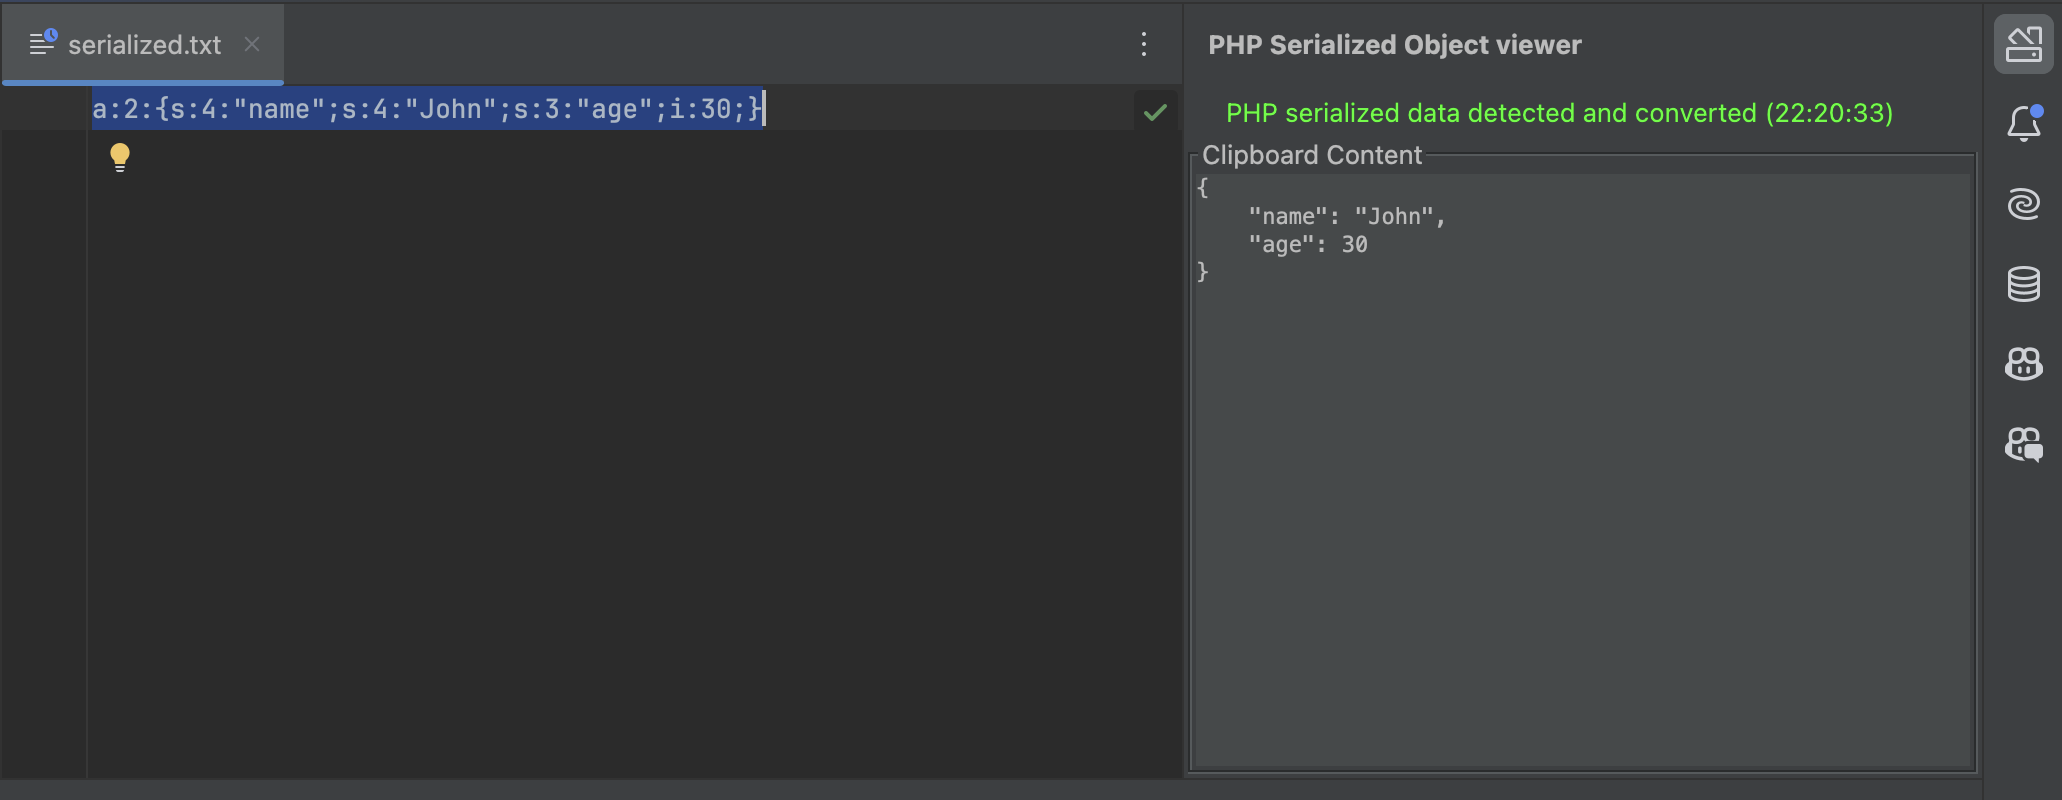
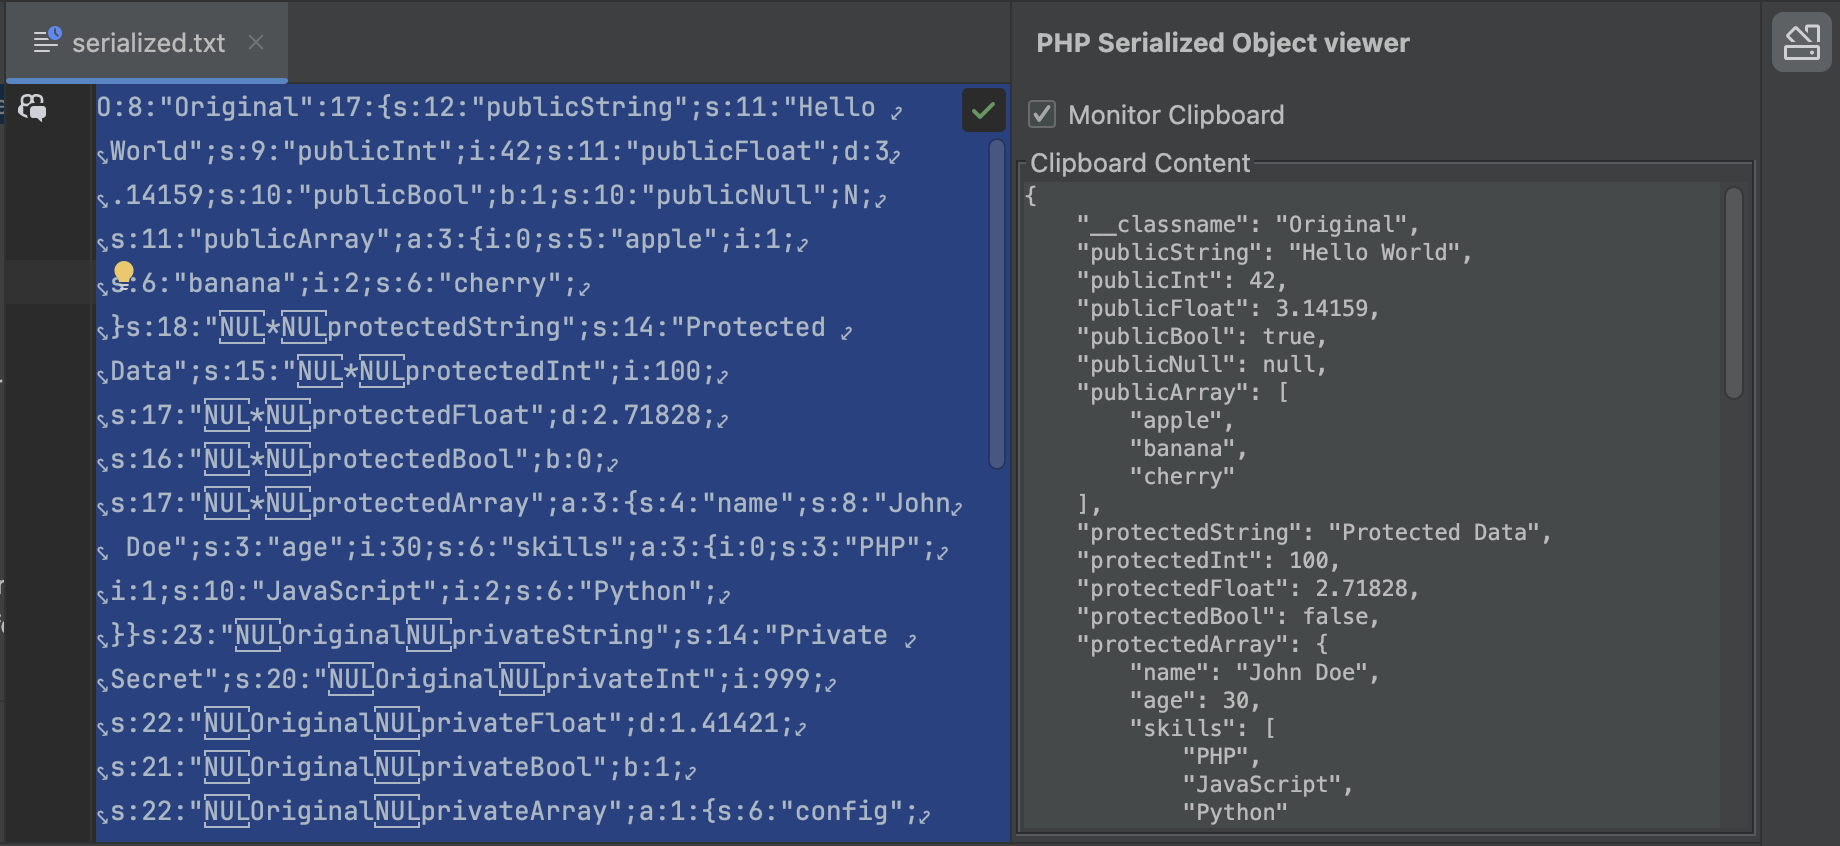
added check box

diff --git a/src/main/kotlin/io/github/haradakunihiko/intellij_plugin_php_serialized_object_viewer/ClipboardMonitorPanel.kt b/src/main/kotlin/io/github/haradakunihiko/intellij_plugin_php_serialized_object_viewer/ClipboardMonitorPanel.kt
@@ -10,30 +10,42 @@ import javax.swing.border.TitledBorder
 class ClipboardMonitorPanel : JPanel(BorderLayout()) {
 
     private val clipboardContent: JTextArea
-    private val statusLabel: JLabel
+    private val monitorCheckBox: JCheckBox
     private val clipboardTimer: Timer
     private var lastClipboardContent = ""
 
     init {
         val components = initializeUI()
-        statusLabel = components.first
-        clipboardContent = components.second
+        clipboardContent = components.first
+        monitorCheckBox = components.second
         clipboardTimer = createClipboardTimer()
         startClipboardMonitoring()
     }
 
-    private fun initializeUI(): Pair<JLabel, JTextArea> {
+    private fun initializeUI(): Pair<JTextArea, JCheckBox> {
         preferredSize = Dimension(400, 300)
 
         val mainPanel = JPanel().apply {
             layout = BoxLayout(this, BoxLayout.Y_AXIS)
         }
 
-        // Status label
-        val statusLbl = JLabel("Monitoring clipboard...").apply {
-            border = BorderFactory.createEmptyBorder(5, 5, 5, 5)
+        // Control panel with checkbox
+        val checkBox = JCheckBox("Monitor Clipboard", true).apply {
+            addActionListener { e ->
+                val checkbox = e.source as JCheckBox
+                if (checkbox.isSelected) {
+                    startClipboardMonitoring()
+                } else {
+                    stopClipboardMonitoring()
+                }
+            }
         }
-        mainPanel.add(statusLbl)
+        val checkBoxPanel = JPanel(BorderLayout()).apply {
+            add(checkBox, BorderLayout.WEST)
+            border = BorderFactory.createEmptyBorder(5, 5, 5, 5)
+            maximumSize = Dimension(Int.MAX_VALUE, 40)
+        }
+        mainPanel.add(checkBoxPanel)
 
         // Clipboard content display area
         val clipboardTextArea = JTextArea(15, 30).apply {
@@ -50,7 +62,7 @@ class ClipboardMonitorPanel : JPanel(BorderLayout()) {
 
         add(mainPanel, BorderLayout.CENTER)
 
-        return Pair(statusLbl, clipboardTextArea)
+        return Pair(clipboardTextArea, checkBox)
     }
 
     private fun createClipboardTimer(): Timer {
@@ -61,7 +73,16 @@ class ClipboardMonitorPanel : JPanel(BorderLayout()) {
         clipboardTimer.start()
     }
 
+    private fun stopClipboardMonitoring() {
+        clipboardTimer.stop()
+    }
+
     private fun checkClipboard() {
+        // Skip clipboard check if monitoring is disabled
+        if (!monitorCheckBox.isSelected) {
+            return
+        }
+        
         SwingUtilities.invokeLater {
             try {
                 val manager = CopyPasteManager.getInstance()
@@ -73,17 +94,9 @@ class ClipboardMonitorPanel : JPanel(BorderLayout()) {
                     if (currentContent != lastClipboardContent) {
                         updateClipboardDisplay(currentContent)
                     }
-                } else {
-                    statusLabel.apply {
-                        text = "No text data in clipboard"
-                        foreground = Color.GRAY
-                    }
                 }
             } catch (ex: Exception) {
-                statusLabel.apply {
-                    text = "Error: ${ex.message}"
-                    foreground = Color.RED
-                }
+                // Handle exceptions silently
             }
         }
     }
@@ -95,10 +108,6 @@ class ClipboardMonitorPanel : JPanel(BorderLayout()) {
         // Update only if changed from last time
         if (processedContent != lastClipboardContent) {
             if (processedContent != content) {
-                statusLabel.apply {
-                    text = "PHP serialized data detected and converted (${getCurrentTime()})"
-                    foreground = Color.GREEN
-                }
                 clipboardContent.apply {
                     text = processedContent
                     caretPosition = 0

diff --git a/README.md b/README.md
@@ -4,10 +4,8 @@ A plugin that monitors clipboard and converts PHP serialized strings to JSON for
 
 **Plugin Page**: https://plugins.jetbrains.com/plugin/27623-php-serialized-object-viewer
 
-
-## Features
-
-- **Clipboard monitoring**: Monitor clipboard content every 1 second
+- **Manual monitoring control**: Enable/disable clipboard monitoring with a checkbox
+- **Clipboard monitoring**: Monitor clipboard content every 1 second when enabled
 - **Automatic detection & conversion**: Automatically convert to JSON format when PHP serialized data is detected
 - **Tool window display**: Display conversion results in a dedicated tool window
 
@@ -29,7 +27,6 @@ a:2:{s:4:"name";s:4:"John";s:3:"age";i:30;}
 
 <img height="200px" alt="PHP Serialized Object Viewer Screenshot 1" src="docs/images/screenshot1.png" />
 <img height="200px" alt="PHP Serialized Object Viewer Screenshot 2" src="docs/images/screenshot2.png" />
-<img height="200px" alt="PHP Serialized Object Viewer Screenshot 2" src="docs/images/screenshot3.png" />
 
 ## Supported PHP Serialization Formats
 
@@ -67,13 +64,17 @@ For detailed information about supported PHP serialization formats, see the conv
    - `View` → `Tool Windows` → `PHP Serialized Object Viewer`
    - Or click `PHP Serialized Object Viewer` from the tool window bar on the right
 
-2. **Copy PHP serialized data**:
+2. **Enable monitoring**:
+   - Check the "Monitor Clipboard" checkbox to start monitoring
+   - Uncheck to stop monitoring and save system resources
+
+3. **Copy PHP serialized data**:
    - Copy PHP serialized data from DataGrip cells
    - Or copy PHP serialized data to clipboard from any source
 
-3. **Check automatic conversion**:
+4. **Check automatic conversion**:
    - Check automatically converted JSON results in the tool window
-   - Check conversion success/failure in status messages
+   - Only works when monitoring is enabled
 
 
 ## Supported Versions
